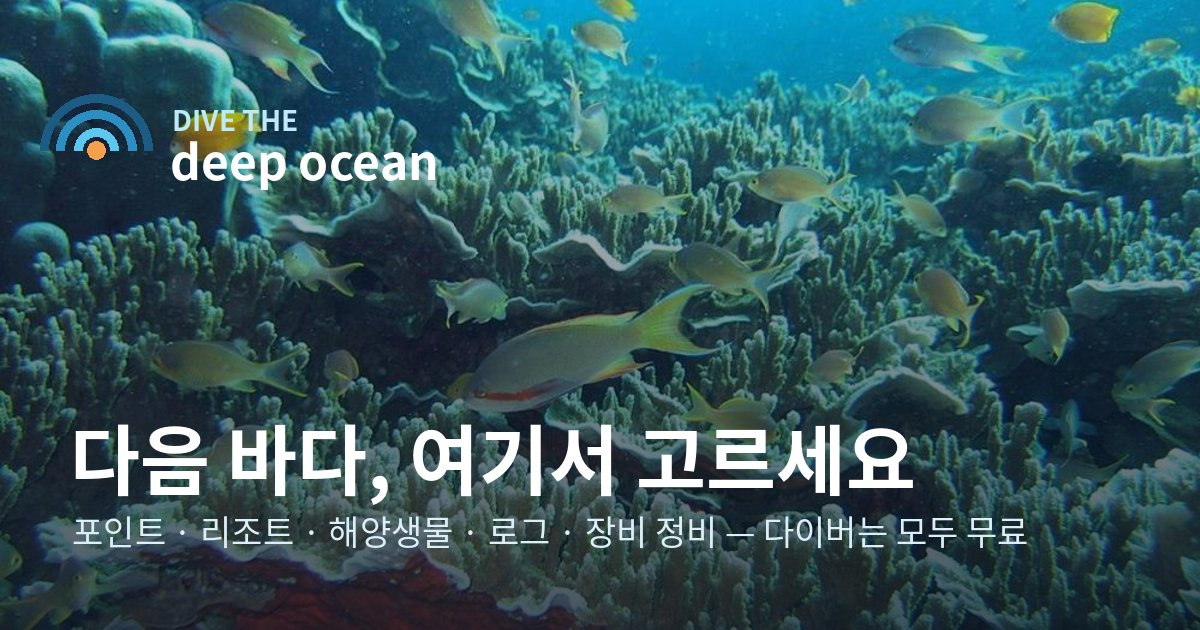
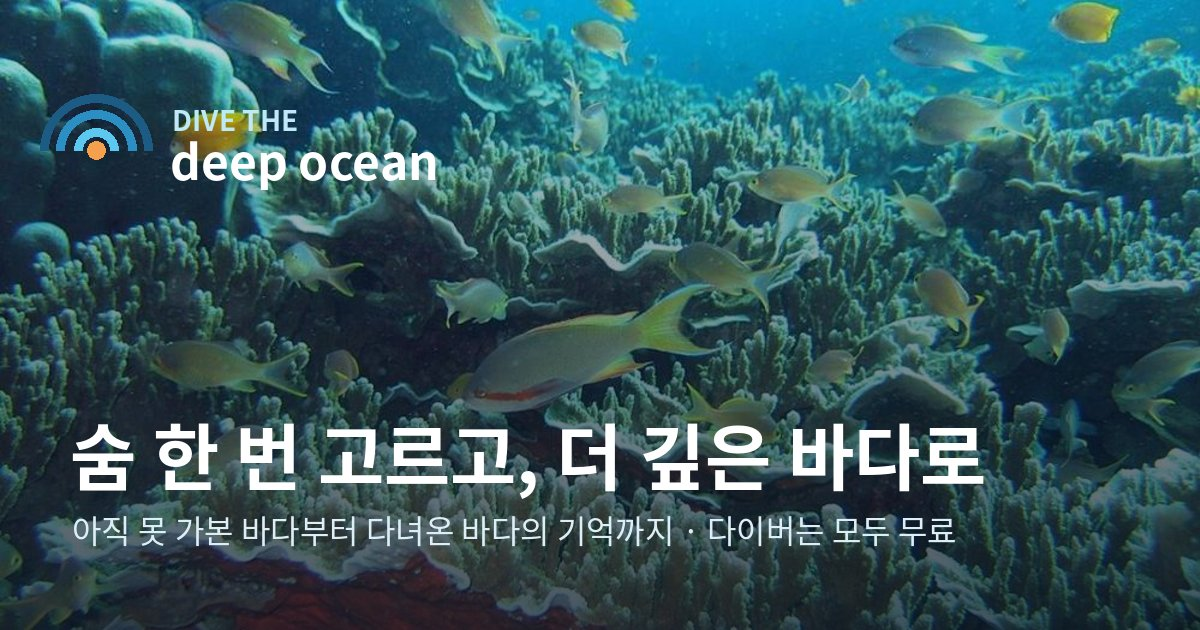
지도 지명 한국어로 (OpenFreeMap), 홈 문구 변경
Claude-Session: https://claude.ai/code/session_01GoqtCevGT3yXL78DMX5eFw

Changed region(s): [[0.0617, 0.6635, 0.8633, 0.8746]]

diff --git a/src/preview.html b/src/preview.html
@@ -1227,7 +1227,7 @@ V.home=function(){setTitle('','전 세계 스쿠버·프리다이빙 포인트, 
   var meets=(state.pubMeets||[]).slice(0,3).map(function(x){var m=mapMeet(x),sp=spot(m.spot)||{};return item({href:'#meet-d'+x.id,tags:[[m.kind,'']],t:esc(m.title),s:esc(m.date)+' · '+(sp.name||'')+' · 최대 '+esc(m.max)+'명'});}).join('');
   var g=(state.gearL||[]).map(function(x){return {g:x,d:due(x)};}).filter(function(x){return x.d;}).sort(function(a,b){return a.d.days-b.d.days;})[0];
   var intro=LS.get('introDone',false)?'':'<div class="panel" style="border:2px solid var(--sea)"><h2>처음 오셨나요? <button class="chip" type="button" id="introX">닫기</button></h2><div class="list">'+item({href:'#map',t:'1. 지도에서 다음 바다 고르기',s:'추천 포인트 '+SPOTS.length+'곳과 다이빙 센터 7,700여 곳'})+item({href:'#life',t:'2. 그 바다에 사는 생물 미리 보기',s:'2만6천 종 도감'})+item({href:'#signup',t:'3. 가입하고 로그·장비 정리하기',s:'다이버는 전부 무료'})+'</div></div>';
-  return '<div class="vh"><div><h1>다음 바다, 여기서 고르세요</h1><p>포인트부터 리조트, 강사, 이동 경로, 내 로그와 장비 정비까지 한 곳에서 · 다이버는 모두 무료</p></div>'+modeChips()+'</div>'+intro+
+  return '<div class="vh"><div><h1>숨 한 번 고르고, 더 깊은 바다로</h1><p>아직 못 가본 바다부터 다녀온 바다의 기억까지 한곳에 · 다이버는 모두 무료</p></div>'+modeChips()+'</div>'+intro+
   homeMapBox()+'<form class="panel msbox" id="homeSearch" role="search" style="padding:12px"><label for="hq" style="position:absolute;left:-9999px">통합 검색</label><input id="hq" type="search" placeholder="포인트 · 리조트 · 생물 · 장비 검색" style="width:100%;height:46px;border-radius:12px;border:1px solid var(--line);padding:0 14px;font:15px var(--font-body);background:var(--panel);color:var(--ink)"></form>'+
   '<div class="cols"><a class="panel" href="#spot-'+s.id+'" style="padding:0;overflow:hidden;text-decoration:none;color:inherit"><div class="ph1" style="height:170px;border-radius:0">'+(p?'<img src="'+esc(p.src)+'" alt="'+esc(s.name)+'" loading="lazy"><span class="credit">'+esc(p.author)+' · '+esc(p.license)+'</span>':'<div style="height:100%;background:'+s.color+'"></div>')+'</div><div class="item" style="padding:14px 18px;border:0"><span class="tx"><span>'+s.country+' · '+s.kind+'</span><b>'+s.name+'</b><span>'+s.desc+'</span></span><span class="rt">자세히</span></div></a>'+condCard()+'</div>'+
   '<div class="panel" id="seaToday"><h2>'+s.name+' 오늘 바다 <span class="small">Open-Meteo</span></h2><p class="empty" style="margin:0">불러오는 중이에요.</p></div>'+
@@ -1252,16 +1252,20 @@ condCard=function(){var L=state.userLogs||[],last=L.filter(function(l){return l.
 /* ---------- 지도 (실제 지도 타일) ---------- */
 var LF={p:null};
 function loadLeaflet(){if(window.L&&window.L.markerClusterGroup)return Promise.resolve();if(LF.p)return LF.p;
-  var SRI={"leaflet.css": "sha384-sHL9NAb7lN7rfvG5lfHpm643Xkcjzp4jFvuavGOndn6pjVqS6ny56CAt3nsEVT4H", "MarkerCluster.css": "sha384-pmjIAcz2bAn0xukfxADbZIb3t8oRT9Sv0rvO+BR5Csr6Dhqq+nZs59P0pPKQJkEV", "MarkerCluster.Default.css": "sha384-wgw+aLYNQ7dlhK47ZPK7FRACiq7ROZwgFNg0m04avm4CaXS+Z9Y7nMu8yNjBKYC+", "leaflet.js": "sha384-cxOPjt7s7Iz04uaHJceBmS+qpjv2JkIHNVcuOrM+YHwZOmJGBXI00mdUXEq65HTH", "leaflet.markercluster.js": "sha384-eXVCORTRlv4FUUgS/xmOyr66XBVraen8ATNLMESp92FKXLAMiKkerixTiBvXriZr"};function sri(u){var f=u.split('/').pop();return SRI[f];}function css(h){var l=document.createElement('link');l.rel='stylesheet';l.href=h;l.integrity=sri(h);l.crossOrigin='anonymous';document.head.appendChild(l);}
+  var SRI={"maplibre-gl.js":"sha384-SYKAG6cglRMN0RVvhNeBY0r3FYKNOJtznwA0v7B5Vp9tr31xAHsZC0DqkQ/pZDmj","maplibre-gl.css":"sha384-MinO0mNliZ3vwppuPOUnGa+iq619pfMhLVUXfC4LHwSCvF9H+6P/KO4Q7qBOYV5V","leaflet-maplibre-gl.js":"sha384-4CB9Vtol9LN6lGgBCvmPLbUEZwilrqIvPieSRurgAXAB7FVJaLS9n8WyAIA5wjQ+","leaflet.css": "sha384-sHL9NAb7lN7rfvG5lfHpm643Xkcjzp4jFvuavGOndn6pjVqS6ny56CAt3nsEVT4H", "MarkerCluster.css": "sha384-pmjIAcz2bAn0xukfxADbZIb3t8oRT9Sv0rvO+BR5Csr6Dhqq+nZs59P0pPKQJkEV", "MarkerCluster.Default.css": "sha384-wgw+aLYNQ7dlhK47ZPK7FRACiq7ROZwgFNg0m04avm4CaXS+Z9Y7nMu8yNjBKYC+", "leaflet.js": "sha384-cxOPjt7s7Iz04uaHJceBmS+qpjv2JkIHNVcuOrM+YHwZOmJGBXI00mdUXEq65HTH", "leaflet.markercluster.js": "sha384-eXVCORTRlv4FUUgS/xmOyr66XBVraen8ATNLMESp92FKXLAMiKkerixTiBvXriZr"};function sri(u){var f=u.split('/').pop();return SRI[f];}function css(h){var l=document.createElement('link');l.rel='stylesheet';l.href=h;l.integrity=sri(h);l.crossOrigin='anonymous';document.head.appendChild(l);}
   function js(s){return new Promise(function(ok,no){var e=document.createElement('script');e.src=s;e.integrity=sri(s);e.crossOrigin='anonymous';e.onload=ok;e.onerror=no;document.head.appendChild(e);});}
   css('https://cdn.jsdelivr.net/npm/leaflet@1.9.4/dist/leaflet.css');css('https://cdn.jsdelivr.net/npm/leaflet.markercluster@1.5.3/dist/MarkerCluster.css');css('https://cdn.jsdelivr.net/npm/leaflet.markercluster@1.5.3/dist/MarkerCluster.Default.css');
-  LF.p=js('https://cdn.jsdelivr.net/npm/leaflet@1.9.4/dist/leaflet.js').then(function(){return js('https://cdn.jsdelivr.net/npm/leaflet.markercluster@1.5.3/dist/leaflet.markercluster.js');});return LF.p;}
+  css('https://cdn.jsdelivr.net/npm/maplibre-gl@4.7.1/dist/maplibre-gl.css');
+  LF.p=Promise.all([js('https://cdn.jsdelivr.net/npm/leaflet@1.9.4/dist/leaflet.js'),js('https://cdn.jsdelivr.net/npm/maplibre-gl@4.7.1/dist/maplibre-gl.js').catch(function(){})]).then(function(){return Promise.all([js('https://cdn.jsdelivr.net/npm/leaflet.markercluster@1.5.3/dist/leaflet.markercluster.js'),window.maplibregl?js('https://cdn.jsdelivr.net/npm/@maplibre/maplibre-gl-leaflet@0.0.22/leaflet-maplibre-gl.js').catch(function(){}):null]);}).then(koStyle);return LF.p;}
+var KOSTYLE=null;function koStyle(){if(KOSTYLE||!window.maplibregl)return;return fetch('https://tiles.openfreemap.org/styles/liberty').then(function(r){return r.json();}).then(function(st){st.layers.forEach(function(l){if(l.layout&&l.layout['text-field'])l.layout['text-field']=['coalesce',['get','name:ko'],['get','name_int'],['get','name']];});KOSTYLE=st;}).catch(function(){});}
+function baseLayer(L){if(KOSTYLE&&L.maplibreGL){try{return L.maplibreGL({style:KOSTYLE,localIdeographFontFamily:"'Apple SD Gothic Neo','Noto Sans KR','Malgun Gothic',sans-serif",attribution:'© <a href="https://openfreemap.org">OpenFreeMap</a> © <a href="https://www.openstreetmap.org/copyright">OpenStreetMap</a>'});}catch(e){}}
+  return L.tileLayer('https://tile.openstreetmap.org/{z}/{x}/{y}.png',{maxZoom:19,attribution:'© <a href="https://www.openstreetmap.org/copyright">OpenStreetMap</a> contributors'});}
 state.lv=LS.get('mapView',null);state.osm=true;state.lvl='전체';
 var RB={'전체':[[-50,-170],[65,190]],'한국':[[33,124.5],[38.6,131.5]],'일본':[[24,122],[45,146]],'필리핀':[[5,116],[19,127]],'동남아':[[-10,95],[20,130]],'미크로네시아':[[5,130],[22,170]],'인도양·홍해':[[-25,30],[30,80]],'호주·태평양':[[-45,110],[0,190]],'아메리카':[[-30,-120],[40,-55]],'유럽':[[28,-20],[62,40]]};
 function spotPopup(s){var p=firstPhoto(s.id);return '<div style="width:220px">'+(p?'<img src="'+esc(th(p))+'" alt="" style="width:100%;height:110px;object-fit:cover;border-radius:8px">':'')+'<b style="display:block;margin-top:6px">'+esc(s.name)+'</b><span style="font-size:12px;color:#4A5B68">'+esc(EN[s.id])+'<br>'+esc(s.country)+' · '+esc(s.kind)+' · 시즌 '+esc(s.season)+'</span><br><a href="#spot-'+s.id+'" style="display:inline-block;margin-top:6px;font-weight:700">포인트 보기 →</a></div>';}
 function initMap(el,opt){loadLeaflet().then(function(){if(!document.body.contains(el))return;var L=window.L;
   var m=L.map(el,{worldCopyJump:true,zoomControl:true,attributionControl:true,minZoom:2,maxZoom:17,fadeAnimation:false,markerZoomAnimation:false});el._m=m;
-  L.tileLayer('https://tile.openstreetmap.org/{z}/{x}/{y}.png',{maxZoom:19,attribution:'© <a href="https://www.openstreetmap.org/copyright">OpenStreetMap</a> contributors'}).addTo(m);
+  baseLayer(L).addTo(m);
   if(opt.view)m.setView(opt.view.c,opt.view.z);else if(opt.bounds)m.fitBounds(opt.bounds);else m.setView([15,140],3);
   if(opt.sites&&DB.sites){var cl=L.markerClusterGroup({chunkedLoading:true,maxClusterRadius:50,showCoverageOnHover:false});var C=['#475467','#0A5C8A','#B4530A'],N=['다이빙 센터·샵','다이빙 포인트','리조트·숙소'];
     DB.sites.forEach(function(x){if(opt.near&&km(opt.near.lat,opt.near.lon,x[0],x[1])>opt.near.r)return;cl.addLayer(L.circleMarker([x[0],x[1]],{radius:5,color:'#fff',weight:1,fillColor:C[x[3]]||C[0],fillOpacity:.9}).bindPopup('<b>'+esc(x[2])+'</b><br><span style="font-size:12px">'+N[x[3]]+(x[4]?' · '+esc(x[4]):'')+'</span><br><a href="https://www.google.com/maps/search/?api=1&query='+x[0]+','+x[1]+'" target="_blank" rel="noopener">길찾기</a>'));});m.addLayer(cl);}
@@ -1571,7 +1575,7 @@ function homeMapBox(){var M=myPlaces();
   ((M.v.length||M.f.length)?'<div class="chips" style="margin-top:10px">'+M.v.map(function(s){return '<a class="chip" href="#spot-'+s.id+'" style="display:inline-flex;align-items:center;text-decoration:none;border-color:#F6A04D">✓ '+s.name+'</a>';}).join('')+M.f.filter(function(s){return M.v.indexOf(s)<0;}).map(function(s){return '<a class="chip" href="#spot-'+s.id+'" style="display:inline-flex;align-items:center;text-decoration:none;border-color:#E5484D">♥ '+s.name+'</a>';}).join('')+'</div>':'<p class="small" style="margin:10px 0 0">포인트 화면에서 <b>다녀왔어요</b>나 <b>찜하기</b>를 누르면 이 지도에 표시돼요. 로그에 적은 포인트도 자동으로 다녀온 곳에 들어가요.</p>')+'</div>';}
 function homeMapInit(){var el=document.getElementById('homemap');if(!el)return;loadLeaflet().then(function(){if(!document.body.contains(el)||el._m)return;var L=window.L,M=myPlaces();
   var m=L.map(el,{worldCopyJump:true,minZoom:1,maxZoom:12,scrollWheelZoom:false,attributionControl:true,fadeAnimation:false,markerZoomAnimation:false});el._m=m;
-  L.tileLayer('https://tile.openstreetmap.org/{z}/{x}/{y}.png',{maxZoom:19,attribution:'© <a href="https://www.openstreetmap.org/copyright">OpenStreetMap</a>'}).addTo(m);
+  baseLayer(L).addTo(m);
   var pts=[];[0,1].forEach(function(pass){SPOTS.forEach(function(s){var v=M.v.indexOf(s)>=0,f=M.f.indexOf(s)>=0,mine=v||f;if((pass===1)!==mine)return;var col=v?'#F6A04D':f?'#E5484D':'#9FB3C2';L.circleMarker([s.lat,s.lon],{radius:mine?9:4,color:'#fff',weight:mine?2:1,fillColor:col,fillOpacity:mine?1:.75}).addTo(m).bindPopup(spotPopup(s)+(v?'<div style="margin-top:4px;font-size:12px">✓ 다녀온 곳</div>':'')+(f?'<div style="font-size:12px">♥ 찜한 곳</div>':''));if(mine)pts.push([s.lat,s.lon]);});});
   if(pts.length>1)m.fitBounds(pts,{padding:[30,30],maxZoom:6});else if(pts.length===1)m.setView(pts[0],5);else m.setView([15,135],2);
   setTimeout(function(){m.invalidateSize();},80);});}

diff --git a/assets/app.cfff2b5e.js b/assets/app.cfff2b5e.js
@@ -982,7 +982,7 @@ V.home=function(){setTitle('','전 세계 스쿠버·프리다이빙 포인트, 
   var meets=(state.pubMeets||[]).slice(0,3).map(function(x){var m=mapMeet(x),sp=spot(m.spot)||{};return item({href:'#meet-d'+x.id,tags:[[m.kind,'']],t:esc(m.title),s:esc(m.date)+' · '+(sp.name||'')+' · 최대 '+esc(m.max)+'명'});}).join('');
   var g=(state.gearL||[]).map(function(x){return {g:x,d:due(x)};}).filter(function(x){return x.d;}).sort(function(a,b){return a.d.days-b.d.days;})[0];
   var intro=LS.get('introDone',false)?'':'<div class="panel" style="border:2px solid var(--sea)"><h2>처음 오셨나요? <button class="chip" type="button" id="introX">닫기</button></h2><div class="list">'+item({href:'#map',t:'1. 지도에서 다음 바다 고르기',s:'추천 포인트 '+SPOTS.length+'곳과 다이빙 센터 7,700여 곳'})+item({href:'#life',t:'2. 그 바다에 사는 생물 미리 보기',s:'2만6천 종 도감'})+item({href:'#signup',t:'3. 가입하고 로그·장비 정리하기',s:'다이버는 전부 무료'})+'</div></div>';
-  return '<div class="vh"><div><h1>다음 바다, 여기서 고르세요</h1><p>포인트부터 리조트, 강사, 이동 경로, 내 로그와 장비 정비까지 한 곳에서 · 다이버는 모두 무료</p></div>'+modeChips()+'</div>'+intro+
+  return '<div class="vh"><div><h1>숨 한 번 고르고, 더 깊은 바다로</h1><p>아직 못 가본 바다부터 다녀온 바다의 기억까지 한곳에 · 다이버는 모두 무료</p></div>'+modeChips()+'</div>'+intro+
   homeMapBox()+'<form class="panel msbox" id="homeSearch" role="search" style="padding:12px"><label for="hq" style="position:absolute;left:-9999px">통합 검색</label><input id="hq" type="search" placeholder="포인트 · 리조트 · 생물 · 장비 검색" style="width:100%;height:46px;border-radius:12px;border:1px solid var(--line);padding:0 14px;font:15px var(--font-body);background:var(--panel);color:var(--ink)"></form>'+
   '<div class="cols"><a class="panel" href="#spot-'+s.id+'" style="padding:0;overflow:hidden;text-decoration:none;color:inherit"><div class="ph1" style="height:170px;border-radius:0">'+(p?'<img src="'+esc(p.src)+'" alt="'+esc(s.name)+'" loading="lazy"><span class="credit">'+esc(p.author)+' · '+esc(p.license)+'</span>':'<div style="height:100%;background:'+s.color+'"></div>')+'</div><div class="item" style="padding:14px 18px;border:0"><span class="tx"><span>'+s.country+' · '+s.kind+'</span><b>'+s.name+'</b><span>'+s.desc+'</span></span><span class="rt">자세히</span></div></a>'+condCard()+'</div>'+
   '<div class="panel" id="seaToday"><h2>'+s.name+' 오늘 바다 <span class="small">Open-Meteo</span></h2><p class="empty" style="margin:0">불러오는 중이에요.</p></div>'+
@@ -1007,16 +1007,20 @@ condCard=function(){var L=state.userLogs||[],last=L.filter(function(l){return l.
 /* ---------- 지도 (실제 지도 타일) ---------- */
 var LF={p:null};
 function loadLeaflet(){if(window.L&&window.L.markerClusterGroup)return Promise.resolve();if(LF.p)return LF.p;
-  var SRI={"leaflet.css": "sha384-sHL9NAb7lN7rfvG5lfHpm643Xkcjzp4jFvuavGOndn6pjVqS6ny56CAt3nsEVT4H", "MarkerCluster.css": "sha384-pmjIAcz2bAn0xukfxADbZIb3t8oRT9Sv0rvO+BR5Csr6Dhqq+nZs59P0pPKQJkEV", "MarkerCluster.Default.css": "sha384-wgw+aLYNQ7dlhK47ZPK7FRACiq7ROZwgFNg0m04avm4CaXS+Z9Y7nMu8yNjBKYC+", "leaflet.js": "sha384-cxOPjt7s7Iz04uaHJceBmS+qpjv2JkIHNVcuOrM+YHwZOmJGBXI00mdUXEq65HTH", "leaflet.markercluster.js": "sha384-eXVCORTRlv4FUUgS/xmOyr66XBVraen8ATNLMESp92FKXLAMiKkerixTiBvXriZr"};function sri(u){var f=u.split('/').pop();return SRI[f];}function css(h){var l=document.createElement('link');l.rel='stylesheet';l.href=h;l.integrity=sri(h);l.crossOrigin='anonymous';document.head.appendChild(l);}
+  var SRI={"maplibre-gl.js":"sha384-SYKAG6cglRMN0RVvhNeBY0r3FYKNOJtznwA0v7B5Vp9tr31xAHsZC0DqkQ/pZDmj","maplibre-gl.css":"sha384-MinO0mNliZ3vwppuPOUnGa+iq619pfMhLVUXfC4LHwSCvF9H+6P/KO4Q7qBOYV5V","leaflet-maplibre-gl.js":"sha384-4CB9Vtol9LN6lGgBCvmPLbUEZwilrqIvPieSRurgAXAB7FVJaLS9n8WyAIA5wjQ+","leaflet.css": "sha384-sHL9NAb7lN7rfvG5lfHpm643Xkcjzp4jFvuavGOndn6pjVqS6ny56CAt3nsEVT4H", "MarkerCluster.css": "sha384-pmjIAcz2bAn0xukfxADbZIb3t8oRT9Sv0rvO+BR5Csr6Dhqq+nZs59P0pPKQJkEV", "MarkerCluster.Default.css": "sha384-wgw+aLYNQ7dlhK47ZPK7FRACiq7ROZwgFNg0m04avm4CaXS+Z9Y7nMu8yNjBKYC+", "leaflet.js": "sha384-cxOPjt7s7Iz04uaHJceBmS+qpjv2JkIHNVcuOrM+YHwZOmJGBXI00mdUXEq65HTH", "leaflet.markercluster.js": "sha384-eXVCORTRlv4FUUgS/xmOyr66XBVraen8ATNLMESp92FKXLAMiKkerixTiBvXriZr"};function sri(u){var f=u.split('/').pop();return SRI[f];}function css(h){var l=document.createElement('link');l.rel='stylesheet';l.href=h;l.integrity=sri(h);l.crossOrigin='anonymous';document.head.appendChild(l);}
   function js(s){return new Promise(function(ok,no){var e=document.createElement('script');e.src=s;e.integrity=sri(s);e.crossOrigin='anonymous';e.onload=ok;e.onerror=no;document.head.appendChild(e);});}
   css('https://cdn.jsdelivr.net/npm/leaflet@1.9.4/dist/leaflet.css');css('https://cdn.jsdelivr.net/npm/leaflet.markercluster@1.5.3/dist/MarkerCluster.css');css('https://cdn.jsdelivr.net/npm/leaflet.markercluster@1.5.3/dist/MarkerCluster.Default.css');
-  LF.p=js('https://cdn.jsdelivr.net/npm/leaflet@1.9.4/dist/leaflet.js').then(function(){return js('https://cdn.jsdelivr.net/npm/leaflet.markercluster@1.5.3/dist/leaflet.markercluster.js');});return LF.p;}
+  css('https://cdn.jsdelivr.net/npm/maplibre-gl@4.7.1/dist/maplibre-gl.css');
+  LF.p=Promise.all([js('https://cdn.jsdelivr.net/npm/leaflet@1.9.4/dist/leaflet.js'),js('https://cdn.jsdelivr.net/npm/maplibre-gl@4.7.1/dist/maplibre-gl.js').catch(function(){})]).then(function(){return Promise.all([js('https://cdn.jsdelivr.net/npm/leaflet.markercluster@1.5.3/dist/leaflet.markercluster.js'),window.maplibregl?js('https://cdn.jsdelivr.net/npm/@maplibre/maplibre-gl-leaflet@0.0.22/leaflet-maplibre-gl.js').catch(function(){}):null]);}).then(koStyle);return LF.p;}
+var KOSTYLE=null;function koStyle(){if(KOSTYLE||!window.maplibregl)return;return fetch('https://tiles.openfreemap.org/styles/liberty').then(function(r){return r.json();}).then(function(st){st.layers.forEach(function(l){if(l.layout&&l.layout['text-field'])l.layout['text-field']=['coalesce',['get','name:ko'],['get','name_int'],['get','name']];});KOSTYLE=st;}).catch(function(){});}
+function baseLayer(L){if(KOSTYLE&&L.maplibreGL){try{return L.maplibreGL({style:KOSTYLE,localIdeographFontFamily:"'Apple SD Gothic Neo','Noto Sans KR','Malgun Gothic',sans-serif",attribution:'© <a href="https://openfreemap.org">OpenFreeMap</a> © <a href="https://www.openstreetmap.org/copyright">OpenStreetMap</a>'});}catch(e){}}
+  return L.tileLayer('https://tile.openstreetmap.org/{z}/{x}/{y}.png',{maxZoom:19,attribution:'© <a href="https://www.openstreetmap.org/copyright">OpenStreetMap</a> contributors'});}
 state.lv=LS.get('mapView',null);state.osm=true;state.lvl='전체';
 var RB={'전체':[[-50,-170],[65,190]],'한국':[[33,124.5],[38.6,131.5]],'일본':[[24,122],[45,146]],'필리핀':[[5,116],[19,127]],'동남아':[[-10,95],[20,130]],'미크로네시아':[[5,130],[22,170]],'인도양·홍해':[[-25,30],[30,80]],'호주·태평양':[[-45,110],[0,190]],'아메리카':[[-30,-120],[40,-55]],'유럽':[[28,-20],[62,40]]};
 function spotPopup(s){var p=firstPhoto(s.id);return '<div style="width:220px">'+(p?'<img src="'+esc(th(p))+'" alt="" style="width:100%;height:110px;object-fit:cover;border-radius:8px">':'')+'<b style="display:block;margin-top:6px">'+esc(s.name)+'</b><span style="font-size:12px;color:#4A5B68">'+esc(EN[s.id])+'<br>'+esc(s.country)+' · '+esc(s.kind)+' · 시즌 '+esc(s.season)+'</span><br><a href="#spot-'+s.id+'" style="display:inline-block;margin-top:6px;font-weight:700">포인트 보기 →</a></div>';}
 function initMap(el,opt){loadLeaflet().then(function(){if(!document.body.contains(el))return;var L=window.L;
   var m=L.map(el,{worldCopyJump:true,zoomControl:true,attributionControl:true,minZoom:2,maxZoom:17,fadeAnimation:false,markerZoomAnimation:false});el._m=m;
-  L.tileLayer('https://tile.openstreetmap.org/{z}/{x}/{y}.png',{maxZoom:19,attribution:'© <a href="https://www.openstreetmap.org/copyright">OpenStreetMap</a> contributors'}).addTo(m);
+  baseLayer(L).addTo(m);
   if(opt.view)m.setView(opt.view.c,opt.view.z);else if(opt.bounds)m.fitBounds(opt.bounds);else m.setView([15,140],3);
   if(opt.sites&&DB.sites){var cl=L.markerClusterGroup({chunkedLoading:true,maxClusterRadius:50,showCoverageOnHover:false});var C=['#475467','#0A5C8A','#B4530A'],N=['다이빙 센터·샵','다이빙 포인트','리조트·숙소'];
     DB.sites.forEach(function(x){if(opt.near&&km(opt.near.lat,opt.near.lon,x[0],x[1])>opt.near.r)return;cl.addLayer(L.circleMarker([x[0],x[1]],{radius:5,color:'#fff',weight:1,fillColor:C[x[3]]||C[0],fillOpacity:.9}).bindPopup('<b>'+esc(x[2])+'</b><br><span style="font-size:12px">'+N[x[3]]+(x[4]?' · '+esc(x[4]):'')+'</span><br><a href="https://www.google.com/maps/search/?api=1&query='+x[0]+','+x[1]+'" target="_blank" rel="noopener">길찾기</a>'));});m.addLayer(cl);}
@@ -1326,7 +1330,7 @@ function homeMapBox(){var M=myPlaces();
   ((M.v.length||M.f.length)?'<div class="chips" style="margin-top:10px">'+M.v.map(function(s){return '<a class="chip" href="#spot-'+s.id+'" style="display:inline-flex;align-items:center;text-decoration:none;border-color:#F6A04D">✓ '+s.name+'</a>';}).join('')+M.f.filter(function(s){return M.v.indexOf(s)<0;}).map(function(s){return '<a class="chip" href="#spot-'+s.id+'" style="display:inline-flex;align-items:center;text-decoration:none;border-color:#E5484D">♥ '+s.name+'</a>';}).join('')+'</div>':'<p class="small" style="margin:10px 0 0">포인트 화면에서 <b>다녀왔어요</b>나 <b>찜하기</b>를 누르면 이 지도에 표시돼요. 로그에 적은 포인트도 자동으로 다녀온 곳에 들어가요.</p>')+'</div>';}
 function homeMapInit(){var el=document.getElementById('homemap');if(!el)return;loadLeaflet().then(function(){if(!document.body.contains(el)||el._m)return;var L=window.L,M=myPlaces();
   var m=L.map(el,{worldCopyJump:true,minZoom:1,maxZoom:12,scrollWheelZoom:false,attributionControl:true,fadeAnimation:false,markerZoomAnimation:false});el._m=m;
-  L.tileLayer('https://tile.openstreetmap.org/{z}/{x}/{y}.png',{maxZoom:19,attribution:'© <a href="https://www.openstreetmap.org/copyright">OpenStreetMap</a>'}).addTo(m);
+  baseLayer(L).addTo(m);
   var pts=[];[0,1].forEach(function(pass){SPOTS.forEach(function(s){var v=M.v.indexOf(s)>=0,f=M.f.indexOf(s)>=0,mine=v||f;if((pass===1)!==mine)return;var col=v?'#F6A04D':f?'#E5484D':'#9FB3C2';L.circleMarker([s.lat,s.lon],{radius:mine?9:4,color:'#fff',weight:mine?2:1,fillColor:col,fillOpacity:mine?1:.75}).addTo(m).bindPopup(spotPopup(s)+(v?'<div style="margin-top:4px;font-size:12px">✓ 다녀온 곳</div>':'')+(f?'<div style="font-size:12px">♥ 찜한 곳</div>':''));if(mine)pts.push([s.lat,s.lon]);});});
   if(pts.length>1)m.fitBounds(pts,{padding:[30,30],maxZoom:6});else if(pts.length===1)m.setView(pts[0],5);else m.setView([15,135],2);
   setTimeout(function(){m.invalidateSize();},80);});}

diff --git a/src/up.js b/src/up.js
@@ -163,7 +163,7 @@ V.home=function(){setTitle('','전 세계 스쿠버·프리다이빙 포인트, 
   var meets=(state.pubMeets||[]).slice(0,3).map(function(x){var m=mapMeet(x),sp=spot(m.spot)||{};return item({href:'#meet-d'+x.id,tags:[[m.kind,'']],t:esc(m.title),s:esc(m.date)+' · '+(sp.name||'')+' · 최대 '+esc(m.max)+'명'});}).join('');
   var g=(state.gearL||[]).map(function(x){return {g:x,d:due(x)};}).filter(function(x){return x.d;}).sort(function(a,b){return a.d.days-b.d.days;})[0];
   var intro=LS.get('introDone',false)?'':'<div class="panel" style="border:2px solid var(--sea)"><h2>처음 오셨나요? <button class="chip" type="button" id="introX">닫기</button></h2><div class="list">'+item({href:'#map',t:'1. 지도에서 다음 바다 고르기',s:'추천 포인트 '+SPOTS.length+'곳과 다이빙 센터 7,700여 곳'})+item({href:'#life',t:'2. 그 바다에 사는 생물 미리 보기',s:'2만6천 종 도감'})+item({href:'#signup',t:'3. 가입하고 로그·장비 정리하기',s:'다이버는 전부 무료'})+'</div></div>';
-  return '<div class="vh"><div><h1>다음 바다, 여기서 고르세요</h1><p>포인트부터 리조트, 강사, 이동 경로, 내 로그와 장비 정비까지 한 곳에서 · 다이버는 모두 무료</p></div>'+modeChips()+'</div>'+intro+
+  return '<div class="vh"><div><h1>숨 한 번 고르고, 더 깊은 바다로</h1><p>아직 못 가본 바다부터 다녀온 바다의 기억까지 한곳에 · 다이버는 모두 무료</p></div>'+modeChips()+'</div>'+intro+
   homeMapBox()+'<form class="panel msbox" id="homeSearch" role="search" style="padding:12px"><label for="hq" style="position:absolute;left:-9999px">통합 검색</label><input id="hq" type="search" placeholder="포인트 · 리조트 · 생물 · 장비 검색" style="width:100%;height:46px;border-radius:12px;border:1px solid var(--line);padding:0 14px;font:15px var(--font-body);background:var(--panel);color:var(--ink)"></form>'+
   '<div class="cols"><a class="panel" href="#spot-'+s.id+'" style="padding:0;overflow:hidden;text-decoration:none;color:inherit"><div class="ph1" style="height:170px;border-radius:0">'+(p?'<img src="'+esc(p.src)+'" alt="'+esc(s.name)+'" loading="lazy"><span class="credit">'+esc(p.author)+' · '+esc(p.license)+'</span>':'<div style="height:100%;background:'+s.color+'"></div>')+'</div><div class="item" style="padding:14px 18px;border:0"><span class="tx"><span>'+s.country+' · '+s.kind+'</span><b>'+s.name+'</b><span>'+s.desc+'</span></span><span class="rt">자세히</span></div></a>'+condCard()+'</div>'+
   '<div class="panel" id="seaToday"><h2>'+s.name+' 오늘 바다 <span class="small">Open-Meteo</span></h2><p class="empty" style="margin:0">불러오는 중이에요.</p></div>'+
@@ -188,16 +188,20 @@ condCard=function(){var L=state.userLogs||[],last=L.filter(function(l){return l.
 /* ---------- 지도 (실제 지도 타일) ---------- */
 var LF={p:null};
 function loadLeaflet(){if(window.L&&window.L.markerClusterGroup)return Promise.resolve();if(LF.p)return LF.p;
-  var SRI={"leaflet.css": "sha384-sHL9NAb7lN7rfvG5lfHpm643Xkcjzp4jFvuavGOndn6pjVqS6ny56CAt3nsEVT4H", "MarkerCluster.css": "sha384-pmjIAcz2bAn0xukfxADbZIb3t8oRT9Sv0rvO+BR5Csr6Dhqq+nZs59P0pPKQJkEV", "MarkerCluster.Default.css": "sha384-wgw+aLYNQ7dlhK47ZPK7FRACiq7ROZwgFNg0m04avm4CaXS+Z9Y7nMu8yNjBKYC+", "leaflet.js": "sha384-cxOPjt7s7Iz04uaHJceBmS+qpjv2JkIHNVcuOrM+YHwZOmJGBXI00mdUXEq65HTH", "leaflet.markercluster.js": "sha384-eXVCORTRlv4FUUgS/xmOyr66XBVraen8ATNLMESp92FKXLAMiKkerixTiBvXriZr"};function sri(u){var f=u.split('/').pop();return SRI[f];}function css(h){var l=document.createElement('link');l.rel='stylesheet';l.href=h;l.integrity=sri(h);l.crossOrigin='anonymous';document.head.appendChild(l);}
+  var SRI={"maplibre-gl.js":"sha384-SYKAG6cglRMN0RVvhNeBY0r3FYKNOJtznwA0v7B5Vp9tr31xAHsZC0DqkQ/pZDmj","maplibre-gl.css":"sha384-MinO0mNliZ3vwppuPOUnGa+iq619pfMhLVUXfC4LHwSCvF9H+6P/KO4Q7qBOYV5V","leaflet-maplibre-gl.js":"sha384-4CB9Vtol9LN6lGgBCvmPLbUEZwilrqIvPieSRurgAXAB7FVJaLS9n8WyAIA5wjQ+","leaflet.css": "sha384-sHL9NAb7lN7rfvG5lfHpm643Xkcjzp4jFvuavGOndn6pjVqS6ny56CAt3nsEVT4H", "MarkerCluster.css": "sha384-pmjIAcz2bAn0xukfxADbZIb3t8oRT9Sv0rvO+BR5Csr6Dhqq+nZs59P0pPKQJkEV", "MarkerCluster.Default.css": "sha384-wgw+aLYNQ7dlhK47ZPK7FRACiq7ROZwgFNg0m04avm4CaXS+Z9Y7nMu8yNjBKYC+", "leaflet.js": "sha384-cxOPjt7s7Iz04uaHJceBmS+qpjv2JkIHNVcuOrM+YHwZOmJGBXI00mdUXEq65HTH", "leaflet.markercluster.js": "sha384-eXVCORTRlv4FUUgS/xmOyr66XBVraen8ATNLMESp92FKXLAMiKkerixTiBvXriZr"};function sri(u){var f=u.split('/').pop();return SRI[f];}function css(h){var l=document.createElement('link');l.rel='stylesheet';l.href=h;l.integrity=sri(h);l.crossOrigin='anonymous';document.head.appendChild(l);}
   function js(s){return new Promise(function(ok,no){var e=document.createElement('script');e.src=s;e.integrity=sri(s);e.crossOrigin='anonymous';e.onload=ok;e.onerror=no;document.head.appendChild(e);});}
   css('https://cdn.jsdelivr.net/npm/leaflet@1.9.4/dist/leaflet.css');css('https://cdn.jsdelivr.net/npm/leaflet.markercluster@1.5.3/dist/MarkerCluster.css');css('https://cdn.jsdelivr.net/npm/leaflet.markercluster@1.5.3/dist/MarkerCluster.Default.css');
-  LF.p=js('https://cdn.jsdelivr.net/npm/leaflet@1.9.4/dist/leaflet.js').then(function(){return js('https://cdn.jsdelivr.net/npm/leaflet.markercluster@1.5.3/dist/leaflet.markercluster.js');});return LF.p;}
+  css('https://cdn.jsdelivr.net/npm/maplibre-gl@4.7.1/dist/maplibre-gl.css');
+  LF.p=Promise.all([js('https://cdn.jsdelivr.net/npm/leaflet@1.9.4/dist/leaflet.js'),js('https://cdn.jsdelivr.net/npm/maplibre-gl@4.7.1/dist/maplibre-gl.js').catch(function(){})]).then(function(){return Promise.all([js('https://cdn.jsdelivr.net/npm/leaflet.markercluster@1.5.3/dist/leaflet.markercluster.js'),window.maplibregl?js('https://cdn.jsdelivr.net/npm/@maplibre/maplibre-gl-leaflet@0.0.22/leaflet-maplibre-gl.js').catch(function(){}):null]);}).then(koStyle);return LF.p;}
+var KOSTYLE=null;function koStyle(){if(KOSTYLE||!window.maplibregl)return;return fetch('https://tiles.openfreemap.org/styles/liberty').then(function(r){return r.json();}).then(function(st){st.layers.forEach(function(l){if(l.layout&&l.layout['text-field'])l.layout['text-field']=['coalesce',['get','name:ko'],['get','name_int'],['get','name']];});KOSTYLE=st;}).catch(function(){});}
+function baseLayer(L){if(KOSTYLE&&L.maplibreGL){try{return L.maplibreGL({style:KOSTYLE,localIdeographFontFamily:"'Apple SD Gothic Neo','Noto Sans KR','Malgun Gothic',sans-serif",attribution:'© <a href="https://openfreemap.org">OpenFreeMap</a> © <a href="https://www.openstreetmap.org/copyright">OpenStreetMap</a>'});}catch(e){}}
+  return L.tileLayer('https://tile.openstreetmap.org/{z}/{x}/{y}.png',{maxZoom:19,attribution:'© <a href="https://www.openstreetmap.org/copyright">OpenStreetMap</a> contributors'});}
 state.lv=LS.get('mapView',null);state.osm=true;state.lvl='전체';
 var RB={'전체':[[-50,-170],[65,190]],'한국':[[33,124.5],[38.6,131.5]],'일본':[[24,122],[45,146]],'필리핀':[[5,116],[19,127]],'동남아':[[-10,95],[20,130]],'미크로네시아':[[5,130],[22,170]],'인도양·홍해':[[-25,30],[30,80]],'호주·태평양':[[-45,110],[0,190]],'아메리카':[[-30,-120],[40,-55]],'유럽':[[28,-20],[62,40]]};
 function spotPopup(s){var p=firstPhoto(s.id);return '<div style="width:220px">'+(p?'<img src="'+esc(th(p))+'" alt="" style="width:100%;height:110px;object-fit:cover;border-radius:8px">':'')+'<b style="display:block;margin-top:6px">'+esc(s.name)+'</b><span style="font-size:12px;color:#4A5B68">'+esc(EN[s.id])+'<br>'+esc(s.country)+' · '+esc(s.kind)+' · 시즌 '+esc(s.season)+'</span><br><a href="#spot-'+s.id+'" style="display:inline-block;margin-top:6px;font-weight:700">포인트 보기 →</a></div>';}
 function initMap(el,opt){loadLeaflet().then(function(){if(!document.body.contains(el))return;var L=window.L;
   var m=L.map(el,{worldCopyJump:true,zoomControl:true,attributionControl:true,minZoom:2,maxZoom:17,fadeAnimation:false,markerZoomAnimation:false});el._m=m;
-  L.tileLayer('https://tile.openstreetmap.org/{z}/{x}/{y}.png',{maxZoom:19,attribution:'© <a href="https://www.openstreetmap.org/copyright">OpenStreetMap</a> contributors'}).addTo(m);
+  baseLayer(L).addTo(m);
   if(opt.view)m.setView(opt.view.c,opt.view.z);else if(opt.bounds)m.fitBounds(opt.bounds);else m.setView([15,140],3);
   if(opt.sites&&DB.sites){var cl=L.markerClusterGroup({chunkedLoading:true,maxClusterRadius:50,showCoverageOnHover:false});var C=['#475467','#0A5C8A','#B4530A'],N=['다이빙 센터·샵','다이빙 포인트','리조트·숙소'];
     DB.sites.forEach(function(x){if(opt.near&&km(opt.near.lat,opt.near.lon,x[0],x[1])>opt.near.r)return;cl.addLayer(L.circleMarker([x[0],x[1]],{radius:5,color:'#fff',weight:1,fillColor:C[x[3]]||C[0],fillOpacity:.9}).bindPopup('<b>'+esc(x[2])+'</b><br><span style="font-size:12px">'+N[x[3]]+(x[4]?' · '+esc(x[4]):'')+'</span><br><a href="https://www.google.com/maps/search/?api=1&query='+x[0]+','+x[1]+'" target="_blank" rel="noopener">길찾기</a>'));});m.addLayer(cl);}

diff --git a/src/up2.js b/src/up2.js
@@ -34,7 +34,7 @@ function homeMapBox(){var M=myPlaces();
   ((M.v.length||M.f.length)?'<div class="chips" style="margin-top:10px">'+M.v.map(function(s){return '<a class="chip" href="#spot-'+s.id+'" style="display:inline-flex;align-items:center;text-decoration:none;border-color:#F6A04D">✓ '+s.name+'</a>';}).join('')+M.f.filter(function(s){return M.v.indexOf(s)<0;}).map(function(s){return '<a class="chip" href="#spot-'+s.id+'" style="display:inline-flex;align-items:center;text-decoration:none;border-color:#E5484D">♥ '+s.name+'</a>';}).join('')+'</div>':'<p class="small" style="margin:10px 0 0">포인트 화면에서 <b>다녀왔어요</b>나 <b>찜하기</b>를 누르면 이 지도에 표시돼요. 로그에 적은 포인트도 자동으로 다녀온 곳에 들어가요.</p>')+'</div>';}
 function homeMapInit(){var el=document.getElementById('homemap');if(!el)return;loadLeaflet().then(function(){if(!document.body.contains(el)||el._m)return;var L=window.L,M=myPlaces();
   var m=L.map(el,{worldCopyJump:true,minZoom:1,maxZoom:12,scrollWheelZoom:false,attributionControl:true,fadeAnimation:false,markerZoomAnimation:false});el._m=m;
-  L.tileLayer('https://tile.openstreetmap.org/{z}/{x}/{y}.png',{maxZoom:19,attribution:'© <a href="https://www.openstreetmap.org/copyright">OpenStreetMap</a>'}).addTo(m);
+  baseLayer(L).addTo(m);
   var pts=[];[0,1].forEach(function(pass){SPOTS.forEach(function(s){var v=M.v.indexOf(s)>=0,f=M.f.indexOf(s)>=0,mine=v||f;if((pass===1)!==mine)return;var col=v?'#F6A04D':f?'#E5484D':'#9FB3C2';L.circleMarker([s.lat,s.lon],{radius:mine?9:4,color:'#fff',weight:mine?2:1,fillColor:col,fillOpacity:mine?1:.75}).addTo(m).bindPopup(spotPopup(s)+(v?'<div style="margin-top:4px;font-size:12px">✓ 다녀온 곳</div>':'')+(f?'<div style="font-size:12px">♥ 찜한 곳</div>':''));if(mine)pts.push([s.lat,s.lon]);});});
   if(pts.length>1)m.fitBounds(pts,{padding:[30,30],maxZoom:6});else if(pts.length===1)m.setView(pts[0],5);else m.setView([15,135],2);
   setTimeout(function(){m.invalidateSize();},80);});}

diff --git a/index.html b/index.html
@@ -5,7 +5,7 @@
 <meta name="viewport" content="width=device-width, initial-scale=1">
 <meta property="og:type" content="website">
 <meta property="og:site_name" content="Dive the deep ocean">
-<meta property="og:title" content="Dive the deep ocean · 다음 바다, 여기서 고르세요">
+<meta property="og:title" content="Dive the deep ocean · 숨 한 번 고르고, 더 깊은 바다로">
 <meta property="og:description" content="전 세계 스쿠버·프리다이빙 포인트, 리조트, 해양생물, 로그와 장비 정비까지. 다이버는 모두 무료.">
 <meta property="og:image" content="https://www.divedeepocean.com/assets/og.jpg">
 <meta property="og:url" content="https://www.divedeepocean.com/">
@@ -21,7 +21,7 @@
 <link rel="preconnect" href="https://fonts.googleapis.com">
 <link rel="preconnect" href="https://fonts.gstatic.com" crossorigin>
 <link rel="stylesheet" href="https://fonts.googleapis.com/css2?family=Sora:wght@500;600;700&family=IBM+Plex+Sans+KR:wght@400;500;700&family=IBM+Plex+Mono:wght@500&display=swap">
-<link rel="stylesheet" href="/assets/app.c5d7d33d.css">
+<link rel="stylesheet" href="/assets/app.cfff2b5e.css">
 </head>
 <body>
 <div class="app">
@@ -50,6 +50,6 @@
 
 <script src="/assets/cfg.js"></script>
 <script src="https://cdn.jsdelivr.net/npm/@supabase/supabase-js@2.45.4/dist/umd/supabase.js" integrity="sha384-0w2KAL2YHP6wKOkUDzkCDGgVvfmHnj02DHeQ6XcHOgTfFsGyonKOpShMH1x6nk9o" crossorigin="anonymous"></script>
-<script src="/assets/app.c5d7d33d.js"></script>
+<script src="/assets/app.cfff2b5e.js"></script>
 </body>
 </html>

diff --git a/sw.js b/sw.js
@@ -1,4 +1,4 @@
-const C='dtdo-c5d7d33d';const SHELL=['/','/manifest.json','/assets/app.c5d7d33d.css','/assets/app.c5d7d33d.js','/assets/icon-192.png'];
+const C='dtdo-cfff2b5e';const SHELL=['/','/manifest.json','/assets/app.cfff2b5e.css','/assets/app.cfff2b5e.js','/assets/icon-192.png'];
 self.addEventListener('install',e=>{e.waitUntil(caches.open(C).then(c=>c.addAll(SHELL)).then(()=>self.skipWaiting()));});
 self.addEventListener('activate',e=>{e.waitUntil(caches.keys().then(k=>Promise.all(k.filter(x=>x!==C).map(x=>caches.delete(x)))).then(()=>self.clients.claim()));});
 self.addEventListener('fetch',e=>{const u=new URL(e.request.url);if(e.request.method!=='GET'||u.origin!==location.origin)return;

diff --git a/src/build.py b/src/build.py
@@ -5,7 +5,7 @@ a=s.rindex('<script>'); b=s.rindex('</script>'); js=s[a+8:b]
 head=s[:s.index('<style>')]; body=s[s.index('</head>'):a]
 os.makedirs('dist/assets',exist_ok=True)
 js=js.replace("fetch('land.json')","fetch('/assets/land.json')").replace("fetch('sites.json')","fetch('/assets/sites.json')")
-head=head.replace('<title>','<meta property="og:type" content="website">\n<meta property="og:site_name" content="Dive the deep ocean">\n<meta property="og:title" content="Dive the deep ocean · 다음 바다, 여기서 고르세요">\n<meta property="og:description" content="전 세계 스쿠버·프리다이빙 포인트, 리조트, 해양생물, 로그와 장비 정비까지. 다이버는 모두 무료.">\n<meta property="og:image" content="https://www.divedeepocean.com/assets/og.jpg">\n<meta property="og:url" content="https://www.divedeepocean.com/">\n<meta name="twitter:card" content="summary_large_image">\n<link rel="canonical" href="https://www.divedeepocean.com/">\n<title>',1)
+head=head.replace('<title>','<meta property="og:type" content="website">\n<meta property="og:site_name" content="Dive the deep ocean">\n<meta property="og:title" content="Dive the deep ocean · 숨 한 번 고르고, 더 깊은 바다로">\n<meta property="og:description" content="전 세계 스쿠버·프리다이빙 포인트, 리조트, 해양생물, 로그와 장비 정비까지. 다이버는 모두 무료.">\n<meta property="og:image" content="https://www.divedeepocean.com/assets/og.jpg">\n<meta property="og:url" content="https://www.divedeepocean.com/">\n<meta name="twitter:card" content="summary_large_image">\n<link rel="canonical" href="https://www.divedeepocean.com/">\n<title>',1)
 head=head.replace('href="icon-192.png"','href="/assets/icon-192.png"').replace('href="manifest.json"','href="/manifest.json"')
 V=hashlib.sha1((css+js).encode()).hexdigest()[:8]
 open('dist/assets/app.%s.css'%V,'w').write(css); open('dist/assets/app.%s.js'%V,'w').write(js)
@@ -26,7 +26,7 @@ json.dump(m,open('dist/manifest.json','w'),ensure_ascii=False)
 sw=open('site/sw.js').read().replace("const C='dtdo-v1';const SHELL=['./','index.html','manifest.json','icon-192.png'];","const C='dtdo-%s';const SHELL=['/','/manifest.json','/assets/app.%s.css','/assets/app.%s.js','/assets/icon-192.png'];"%(V,V,V))
 open('dist/sw.js','w').write(sw)
 ST='https://crasesnlwwyegdgzkqes.supabase.co/storage/v1/object/public/site/'
-SEC=[{"key":"Content-Security-Policy","value":"default-src 'self'; script-src 'self' https://cdn.jsdelivr.net; style-src 'self' 'unsafe-inline' https://cdn.jsdelivr.net https://fonts.googleapis.com; font-src 'self' https://fonts.gstatic.com data:; img-src 'self' data: blob: https://crasesnlwwyegdgzkqes.supabase.co https://inaturalist-open-data.s3.amazonaws.com https://static.inaturalist.org https://tile.openstreetmap.org https://upload.wikimedia.org https://cdn.jsdelivr.net; media-src 'self' https://upload.wikimedia.org; connect-src 'self' https://crasesnlwwyegdgzkqes.supabase.co wss://crasesnlwwyegdgzkqes.supabase.co https://marine-api.open-meteo.com https://api.inaturalist.org https://cdn.jsdelivr.net; worker-src 'self'; manifest-src 'self'; frame-ancestors 'none'; base-uri 'self'; form-action 'self'; object-src 'none'; upgrade-insecure-requests"},{"key":"Strict-Transport-Security","value":"max-age=63072000; includeSubDomains; preload"},{"key":"X-Content-Type-Options","value":"nosniff"},{"key":"X-Frame-Options","value":"DENY"},{"key":"Referrer-Policy","value":"strict-origin-when-cross-origin"},{"key":"Permissions-Policy","value":"camera=(), microphone=(), geolocation=(self), payment=()"}]
+SEC=[{"key":"Content-Security-Policy","value":"default-src 'self'; script-src 'self' https://cdn.jsdelivr.net; style-src 'self' 'unsafe-inline' https://cdn.jsdelivr.net https://fonts.googleapis.com; font-src 'self' https://fonts.gstatic.com data:; img-src 'self' data: blob: https://tiles.openfreemap.org https://crasesnlwwyegdgzkqes.supabase.co https://inaturalist-open-data.s3.amazonaws.com https://static.inaturalist.org https://tile.openstreetmap.org https://upload.wikimedia.org https://cdn.jsdelivr.net; media-src 'self' https://upload.wikimedia.org; connect-src 'self' https://tiles.openfreemap.org https://crasesnlwwyegdgzkqes.supabase.co wss://crasesnlwwyegdgzkqes.supabase.co https://marine-api.open-meteo.com https://api.inaturalist.org https://cdn.jsdelivr.net; worker-src 'self' blob:; child-src blob:; manifest-src 'self'; frame-ancestors 'none'; base-uri 'self'; form-action 'self'; object-src 'none'; upgrade-insecure-requests"},{"key":"Strict-Transport-Security","value":"max-age=63072000; includeSubDomains; preload"},{"key":"X-Content-Type-Options","value":"nosniff"},{"key":"X-Frame-Options","value":"DENY"},{"key":"Referrer-Policy","value":"strict-origin-when-cross-origin"},{"key":"Permissions-Policy","value":"camera=(), microphone=(), geolocation=(self), payment=()"}]
 json.dump({"cleanUrls":False,"headers":[{"source":"/(.*)","headers":SEC},{"source":"/assets/app.(.*)","headers":[{"key":"Cache-Control","value":"public, max-age=31536000, immutable"}]},{"source":"/assets/media/(.*)","headers":[{"key":"Cache-Control","value":"public, max-age=604800"}]},{"source":"/sw.js","headers":[{"key":"Cache-Control","value":"no-cache"}]},{"source":"/","headers":[{"key":"Cache-Control","value":"no-cache"}]}]},open('dist/vercel.json','w'),indent=1)
 print(V,{f:os.path.getsize('dist/'+f) for f in ['index.html','manifest.json','sw.js','vercel.json']})
 open('dist/VERSION','w').write(V)
